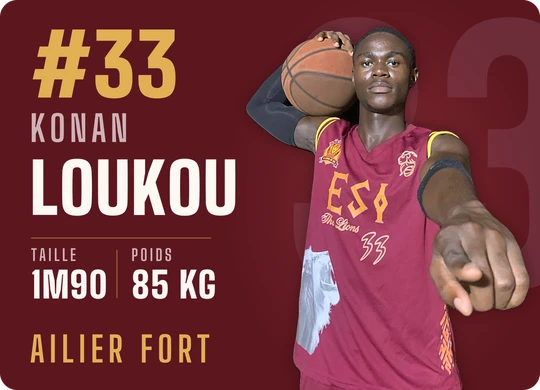
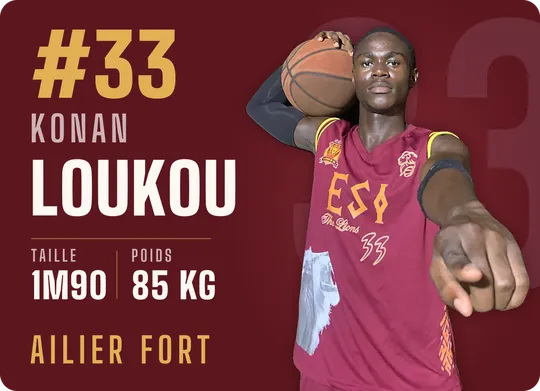
Accélère le chargement des cartes joueurs
- cache d'un an (immutable) sur /cartes/ avec ?v= pour invalider
- WebP ré-encodés depuis les sources (qualité 82/80, method 6)
- version 800 px + srcSet 540/800/1076 pour servir la bonne taille

Claude-Session: https://claude.ai/code/session_01XrgpiNzGbMDPcmnVP5w9tM

diff --git a/components/PlayerCardVisual.tsx b/components/PlayerCardVisual.tsx
@@ -16,14 +16,17 @@ export default function PlayerCardVisual({ player, variant = 'profile' }: { play
     const compact = variant === 'compact'
     return (
       <article className="relative w-full">
-        <Image
+        {/* eslint-disable-next-line @next/next/no-img-element -- images déjà optimisées (WebP 540/800/1076), srcSet manuel */}
+        <img
           src={compact ? cardImage.small : cardImage.full}
+          srcSet={cardImage.srcSet}
+          sizes={compact ? '(min-width: 1024px) 33vw, 50vw' : '(min-width: 1024px) 900px, 100vw'}
           alt={cardAlt}
           width={CARD_WIDTH}
           height={CARD_HEIGHT}
-          sizes={compact ? '(min-width: 1024px) 33vw, 50vw' : '(min-width: 1024px) 900px, 100vw'}
-          priority={!compact}
-          unoptimized
+          loading={compact ? 'lazy' : 'eager'}
+          fetchPriority={compact ? 'auto' : 'high'}
+          decoding="async"
           style={{ width: '100%', height: 'auto', aspectRatio: `${CARD_WIDTH} / ${CARD_HEIGHT}` }}
           className="block rounded-[3.2%] shadow-[0_5px_14px_var(--match-card-shadow)]"
         />

diff --git a/lib/data/player-card-images.ts b/lib/data/player-card-images.ts
@@ -21,8 +21,17 @@ const CARD_FILES: Record<number, string> = {
 export const CARD_WIDTH = 1076
 export const CARD_HEIGHT = 780
 
+// Incrémenter cette valeur quand une carte est remplacée : les fichiers sont servis avec un
+// cache d'un an (immutable), le paramètre ?v= force les téléphones à recharger la nouvelle image.
+export const CARD_VERSION = 2
+
 export function playerCardImage(jerseyNumber: number | null) {
   const file = jerseyNumber === null ? undefined : CARD_FILES[jerseyNumber]
   if (!file) return null
-  return { full: `/cartes/${file}.webp`, small: `/cartes/${file}_540.webp` }
+  const url = (suffix: string) => `/cartes/${file}${suffix}.webp?v=${CARD_VERSION}`
+  return {
+    full: url(''),
+    small: url('_540'),
+    srcSet: `${url('_540')} 540w, ${url('_800')} 800w, ${url('')} 1076w`,
+  }
 }

diff --git a/next.config.ts b/next.config.ts
@@ -34,6 +34,7 @@ const nextConfig: NextConfig = {
     return [
       { source: "/:path*", headers: securityHeaders },
       { source: "/images/:path*", headers: [{ key: "Cache-Control", value: "public, max-age=86400, stale-while-revalidate=604800" }] },
+      { source: "/cartes/:path*", headers: [{ key: "Cache-Control", value: "public, max-age=31536000, immutable" }] },
       { source: "/logos/:path*", headers: [{ key: "Cache-Control", value: "public, max-age=86400, stale-while-revalidate=604800" }] },
       { source: "/login", headers: [{ key: "Cache-Control", value: "private, no-store, max-age=0, must-revalidate" }] },
       { source: "/premiere-connexion", headers: [{ key: "Cache-Control", value: "private, no-store, max-age=0, must-revalidate" }] },
